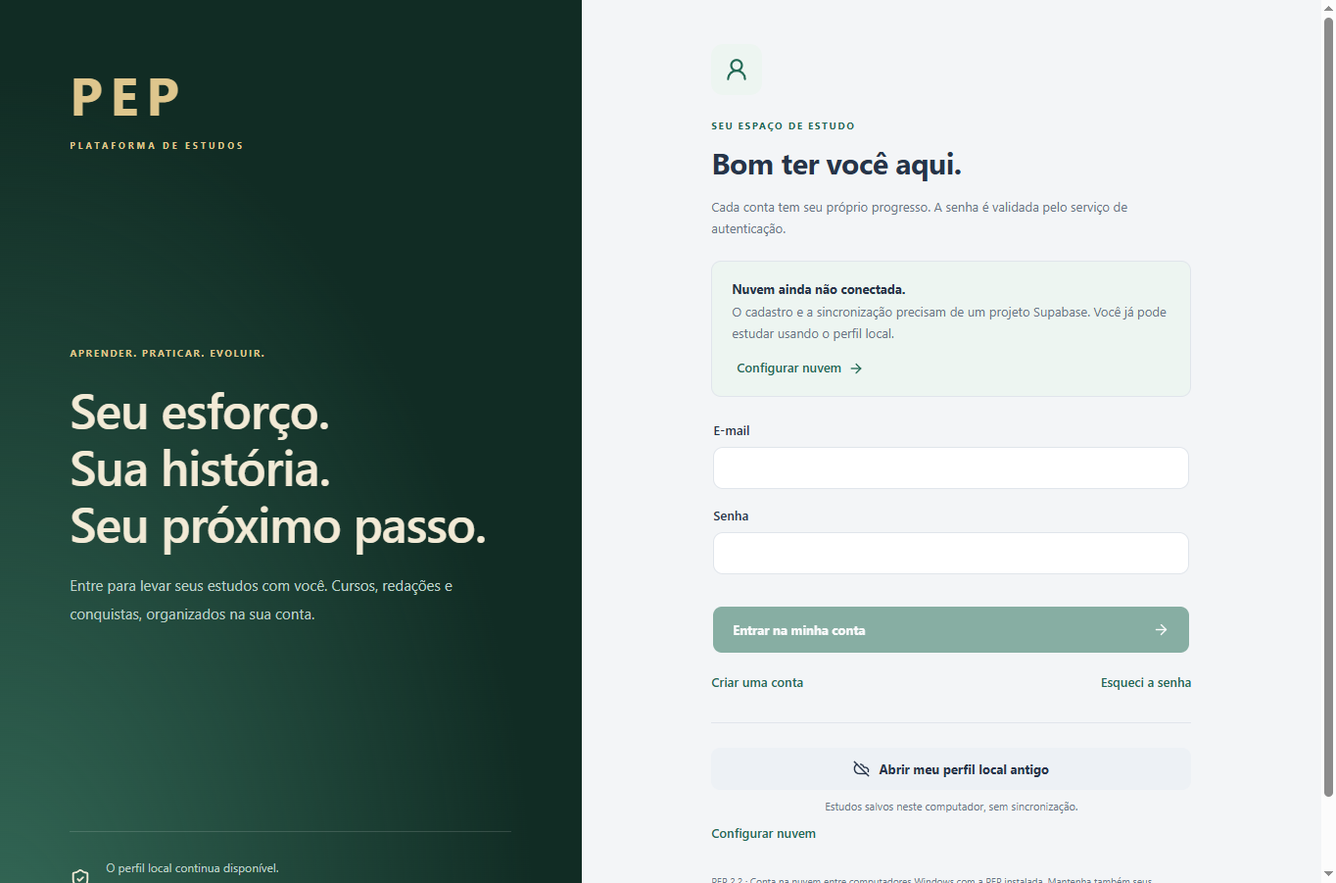
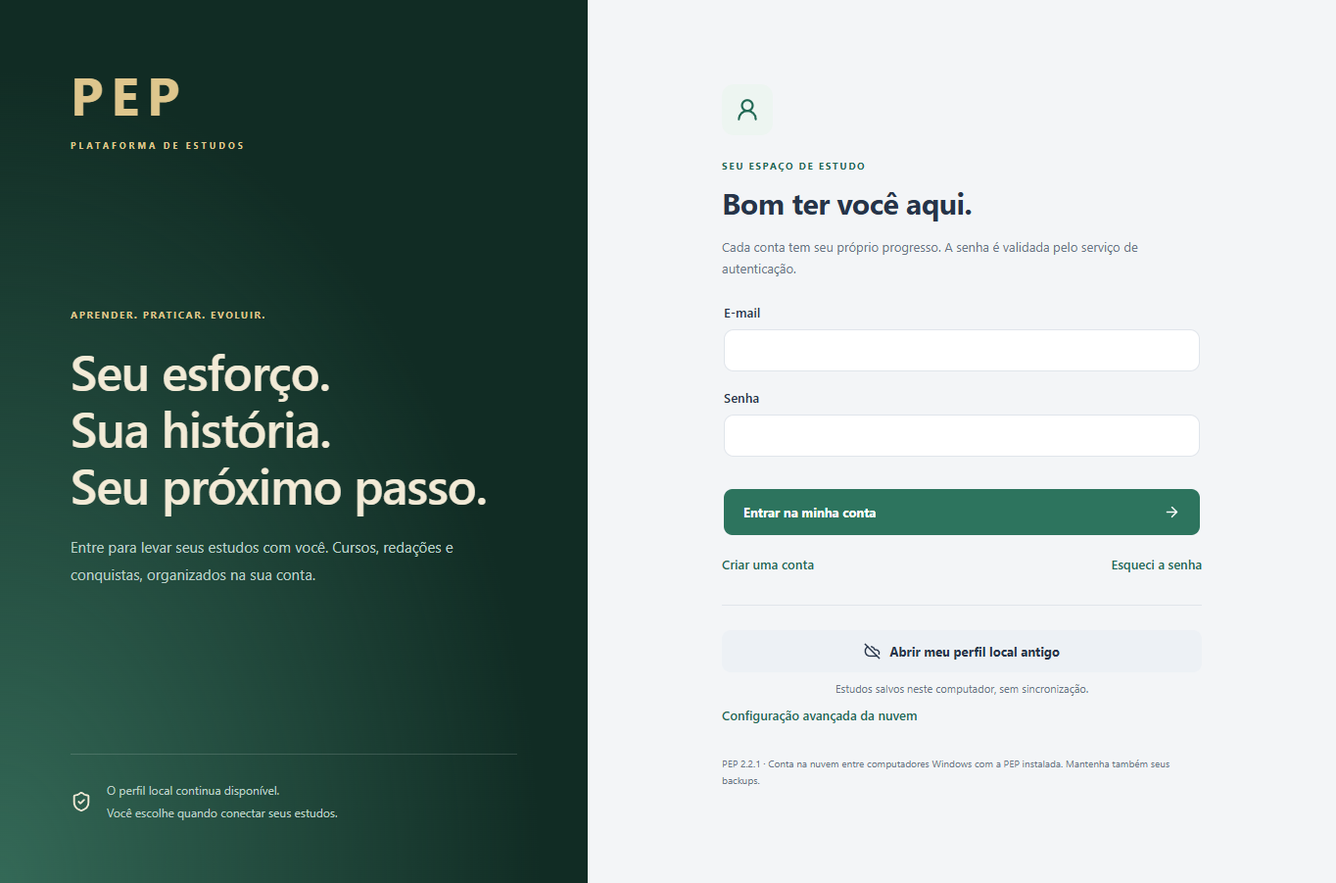
Conecta PEP 2.2.1 ao projeto publico de contas

diff --git a/src/pep-app.tsx b/src/pep-app.tsx
@@ -25,5 +25,5 @@ export default function App({accountControl}:{accountControl?:ReactNode}){
  async function toggleSound(){try{await api('/api/preferences','settings:sound',{enabled:!sound});setSound(!sound);}catch(e){setError((e as Error).message);}}
  const controls=<>{accountControl}<button className="global-nav-button" aria-label="Abrir central de redações" onClick={()=>setView('writing')}><FilePenLine size={18}/><span>Redações</span></button><button className="global-nav-button" aria-label="Abrir radar de concursos" onClick={()=>setView('radar')}><Bell size={18}/><span>Radar</span></button><button className="icon-button" aria-label="Alternar tela cheia" title="Tela cheia · F11 (Esc para sair)" onClick={()=>windowAction('fullscreen')}><Maximize2 size={17}/></button><button className="icon-button" aria-label="Minimizar PEP" title="Minimizar" onClick={()=>windowAction('minimize')}><Minus size={17}/></button><button className="icon-button" onClick={toggleSound} aria-label={sound?'Desativar som da abertura':'Ativar som da abertura'} title="Som da abertura">{sound?<Volume2 size={19}/>:<VolumeX size={19}/>}</button><button className="icon-button" onClick={theme} aria-label={mode==='dark'?'Ativar tema claro':'Ativar tema escuro'} title="Alterar tema">{mode==='dark'?<Sun size={19}/>:<Moon size={19}/>}</button></>;
  if(!ready)return <div className="loading"><b>PEP</b><p>Preparando seu espaço de estudo…</p></div>;
- return <>{intro&&<Splash sound={sound} onFinish={finish} onSound={toggleSound}/>}<div aria-hidden={intro||undefined} inert={intro||undefined}>{error&&<div className="error global-error" role="alert">{error}<button onClick={()=>setError('')}>Fechar</button></div>}<div hidden={view!=='writing'}><WritingStudio controls={controls} onExit={()=>setView('study')}/></div><div hidden={view!=='radar'}><RadarView controls={controls} onExit={()=>setView('study')}/></div><div hidden={view!=='study'}>{course?<CourseRoom key={course.id} course={course} controls={controls} onExit={()=>setCourse(null)}/>:<div className="hub"><header className="hub-header"><div className="brand"><div className="brand-mark">PEP</div><div><b>Plataforma de Estudos</b><span>Seu espaço para ir além</span></div></div><div className="row"><span className="version">VERSÃO DE TESTES · 2.2</span>{controls}</div></header><main className="hub-main">{stage==='bb'?<><button className="text-button" onClick={()=>setStage('hub')}><ArrowLeft size={17}/> Todos os concursos</button><div className="hub-title"><span className="eyebrow">BANCO DO BRASIL</span><h1>Qual caminho você prefere?</h1><p>Escolha seu cargo. Você pode trocar quando quiser; cada trilha guarda seu próprio progresso.</p></div><div className="course-grid">{courses.slice(1).map((c,i)=><button className={'course-tile '+(i?'technology':'commercial')} key={c.id} onClick={()=>setCourse(c)}><div className="tile-top"><div className="institution-icon">{i?<Monitor size={29}/>:<Landmark size={29}/>}</div><span className="pill">ENSINO MÉDIO*</span></div><div className="tile-body"><span className="eyebrow">ESCRITURÁRIO</span><h2>{i?'Agente de Tecnologia':'Agente Comercial'}</h2><p>{c.description}</p><div className="tile-tags"><span>{c.lessons.length} aulas-guia</span><span>{c.questions.length} questões</span><span>Redação</span></div></div><div className="tile-bottom">Escolher este cargo <ArrowRight size={21}/></div></button>)}</div><div className="notice"><strong>Preparação antecipada · referência 2022/001.</strong> Não foi localizado novo edital na pesquisa de 05/10/2026. A estrutura usa a seleção de 2022 e as provas de 2023. *Requisito do edital histórico; confira as regras de uma nova seleção.</div></>:<><div className="hub-title"><span className="eyebrow">SEU FUTURO, UMA HORA POR DIA</span><h1>Onde você quer chegar?</h1><p>Escolha um concurso e transforme sua próxima hora em progresso.</p></div><div className="course-grid"><button className="course-tile curitiba" onClick={()=>setCourse(courses[0])}><div className="tile-top"><div className="institution-icon"><Building2 size={30}/></div><span className="pill">EDITAL 4/2026</span></div><div className="tile-body"><span className="eyebrow">PREFEITURA DE CURITIBA</span><h2>Agente<br/>Administrativo</h2><p>Um caminho para o serviço público. Sua preparação organizada até a prova.</p><div className="tile-tags"><span>40 aulas-guia</span><span>80 questões</span><span>Prova · 13 dez*</span></div></div><div className="tile-bottom">Entrar no curso <ArrowRight size={21}/></div></button><button className="course-tile commercial" onClick={()=>setStage('bb')}><div className="tile-top"><div className="institution-icon"><Landmark size={30}/></div><span className="pill">DUAS TRILHAS</span></div><div className="tile-body"><span className="eyebrow">BANCO DO BRASIL</span><h2>Seu lugar<br/>no próximo capítulo.</h2><p>Agente Comercial ou Agente de Tecnologia. Escolha a trilha que combina com você.</p><div className="tile-tags"><span>Preparação antecipada</span><span>Redação</span></div></div><div className="tile-bottom">Escolher meu cargo <ArrowRight size={21}/></div></button></div></>}<div className="hub-tools"><button onClick={()=>setView('writing')}><FilePenLine size={25}/><div><b>Central de redações</b><span>ENEM, concursos e vestibulares · correção com Groq</span></div><ArrowRight size={19}/></button><button onClick={()=>setView('radar')}><Bell size={25}/><div><b>Radar de concursos</b><span>Publicações oficiais, próximos passos e lembretes</span></div><ArrowRight size={19}/></button></div><div className="hub-features"><div><Clock3 size={22}/><b>1 hora por dia</b><span>Um plano possível para sua rotina</span></div><div><BookOpen size={22}/><b>Aprenda e pratique</b><span>Aulas, questões, revisões e simulados</span></div><div><Check size={22}/><b>Progresso no computador</b><span>Estude offline e salve seus backups</span></div></div><footer><span>PEP · Aprender. Praticar. Evoluir.</span><button className="text-button" onClick={()=>setIntro(true)}>Rever abertura</button><span>{stage==='hub'?'*Data prevista. Confira as publicações da banca.':'Conteúdo autoral de apoio; confira o edital vigente.'}</span></footer></main></div>}</div></div></>;
+ return <>{intro&&<Splash sound={sound} onFinish={finish} onSound={toggleSound}/>}<div aria-hidden={intro||undefined} inert={intro||undefined}>{error&&<div className="error global-error" role="alert">{error}<button onClick={()=>setError('')}>Fechar</button></div>}<div hidden={view!=='writing'}><WritingStudio controls={controls} onExit={()=>setView('study')}/></div><div hidden={view!=='radar'}><RadarView controls={controls} onExit={()=>setView('study')}/></div><div hidden={view!=='study'}>{course?<CourseRoom key={course.id} course={course} controls={controls} onExit={()=>setCourse(null)}/>:<div className="hub"><header className="hub-header"><div className="brand"><div className="brand-mark">PEP</div><div><b>Plataforma de Estudos</b><span>Seu espaço para ir além</span></div></div><div className="row"><span className="version">VERSÃO DE TESTES · 2.2.1</span>{controls}</div></header><main className="hub-main">{stage==='bb'?<><button className="text-button" onClick={()=>setStage('hub')}><ArrowLeft size={17}/> Todos os concursos</button><div className="hub-title"><span className="eyebrow">BANCO DO BRASIL</span><h1>Qual caminho você prefere?</h1><p>Escolha seu cargo. Você pode trocar quando quiser; cada trilha guarda seu próprio progresso.</p></div><div className="course-grid">{courses.slice(1).map((c,i)=><button className={'course-tile '+(i?'technology':'commercial')} key={c.id} onClick={()=>setCourse(c)}><div className="tile-top"><div className="institution-icon">{i?<Monitor size={29}/>:<Landmark size={29}/>}</div><span className="pill">ENSINO MÉDIO*</span></div><div className="tile-body"><span className="eyebrow">ESCRITURÁRIO</span><h2>{i?'Agente de Tecnologia':'Agente Comercial'}</h2><p>{c.description}</p><div className="tile-tags"><span>{c.lessons.length} aulas-guia</span><span>{c.questions.length} questões</span><span>Redação</span></div></div><div className="tile-bottom">Escolher este cargo <ArrowRight size={21}/></div></button>)}</div><div className="notice"><strong>Preparação antecipada · referência 2022/001.</strong> Não foi localizado novo edital na pesquisa de 05/10/2026. A estrutura usa a seleção de 2022 e as provas de 2023. *Requisito do edital histórico; confira as regras de uma nova seleção.</div></>:<><div className="hub-title"><span className="eyebrow">SEU FUTURO, UMA HORA POR DIA</span><h1>Onde você quer chegar?</h1><p>Escolha um concurso e transforme sua próxima hora em progresso.</p></div><div className="course-grid"><button className="course-tile curitiba" onClick={()=>setCourse(courses[0])}><div className="tile-top"><div className="institution-icon"><Building2 size={30}/></div><span className="pill">EDITAL 4/2026</span></div><div className="tile-body"><span className="eyebrow">PREFEITURA DE CURITIBA</span><h2>Agente<br/>Administrativo</h2><p>Um caminho para o serviço público. Sua preparação organizada até a prova.</p><div className="tile-tags"><span>40 aulas-guia</span><span>80 questões</span><span>Prova · 13 dez*</span></div></div><div className="tile-bottom">Entrar no curso <ArrowRight size={21}/></div></button><button className="course-tile commercial" onClick={()=>setStage('bb')}><div className="tile-top"><div className="institution-icon"><Landmark size={30}/></div><span className="pill">DUAS TRILHAS</span></div><div className="tile-body"><span className="eyebrow">BANCO DO BRASIL</span><h2>Seu lugar<br/>no próximo capítulo.</h2><p>Agente Comercial ou Agente de Tecnologia. Escolha a trilha que combina com você.</p><div className="tile-tags"><span>Preparação antecipada</span><span>Redação</span></div></div><div className="tile-bottom">Escolher meu cargo <ArrowRight size={21}/></div></button></div></>}<div className="hub-tools"><button onClick={()=>setView('writing')}><FilePenLine size={25}/><div><b>Central de redações</b><span>ENEM, concursos e vestibulares · correção com Groq</span></div><ArrowRight size={19}/></button><button onClick={()=>setView('radar')}><Bell size={25}/><div><b>Radar de concursos</b><span>Publicações oficiais, próximos passos e lembretes</span></div><ArrowRight size={19}/></button></div><div className="hub-features"><div><Clock3 size={22}/><b>1 hora por dia</b><span>Um plano possível para sua rotina</span></div><div><BookOpen size={22}/><b>Aprenda e pratique</b><span>Aulas, questões, revisões e simulados</span></div><div><Check size={22}/><b>Progresso no computador</b><span>Estude offline e salve seus backups</span></div></div><footer><span>PEP · Aprender. Praticar. Evoluir.</span><button className="text-button" onClick={()=>setIntro(true)}>Rever abertura</button><span>{stage==='hub'?'*Data prevista. Confira as publicações da banca.':'Conteúdo autoral de apoio; confira o edital vigente.'}</span></footer></main></div>}</div></div></>;
 }

diff --git a/src/account-ui.tsx b/src/account-ui.tsx
@@ -6,15 +6,15 @@ function hasUnsaved(){return !window.dispatchEvent(new Event('beforeunload',{can
 export default function AccountGate(){
  const [state,setState]=useState<any>(null),[page,setPage]=useState('login'),[email,setEmail]=useState(''),[password,setPassword]=useState(''),[repeat,setRepeat]=useState(''),[code,setCode]=useState(''),[url,setUrl]=useState(''),[key,setKey]=useState(''),[busy,setBusy]=useState(false),[error,setError]=useState(''),[message,setMessage]=useState('');
  useEffect(()=>{account().then(d=>{setState(d);setUrl(d.projectUrl);}).catch(e=>setError(e.message));},[]);
- async function action(type:string){setBusy(true);setError('');setMessage('');try{if(type==='signup'&&password!==repeat)throw Error('As senhas precisam ser iguais.');const d=await account({action:type,email,password,code,url,key});if(['config','guest','login','signup','confirm','reset'].includes(type)){if(d.profile){setState(d);setPassword('');setRepeat('');}else{setState((s:any)=>({...s,...d}));if(type==='signup'){setPage('confirm');setPassword('');setRepeat('');setMessage('Confira seu e-mail para confirmar o cadastro. Se recebeu um link, confirme no navegador e depois entre aqui.');}else if(type==='config'){setKey('');setPage('login');setMessage('Projeto configurado. O banco precisa estar instalado conforme o guia.');}}}else setMessage(type==='recover'?'Se a conta existir, enviaremos um código. Confira também a pasta de spam.':'Mensagem solicitada. Confira seu e-mail.');}catch(e){setError((e as Error).message);}finally{setBusy(false);}}
+ async function action(type:string){setBusy(true);setError('');setMessage('');try{if(type==='signup'&&password!==repeat)throw Error('As senhas precisam ser iguais.');const d=await account({action:type,email,password,code,url,key});if(['config','guest','login','signup','confirm','reset'].includes(type)){if(d.profile){setState(d);setPassword('');setRepeat('');}else{setState((s:any)=>({...s,...d}));if(type==='signup'){setPage('confirm');setPassword('');setRepeat('');setMessage('Enviamos um código para seu e-mail. Digite-o abaixo para confirmar o cadastro. Confira também a pasta de spam.');}else if(type==='config'){setKey('');setPage('login');setMessage('Projeto configurado. O banco precisa estar instalado conforme o guia.');}}}else setMessage(type==='recover'?'Se a conta existir, enviaremos um código. Confira também a pasta de spam.':'Mensagem solicitada. Confira seu e-mail.');}catch(e){setError((e as Error).message);}finally{setBusy(false);}}
  function navigate(next:string){setPage(next);setError('');setMessage('');setPassword('');setRepeat('');setCode('');}
  if(state?.profile)return <App key={state.profile.id} accountControl={<AccountMenu initial={state} onLogout={d=>{setState(d);navigate('login');}}/>}/>;
- return <div className="auth-page"><aside className="auth-story"><div className="auth-logo">PEP<span>PLATAFORMA DE ESTUDOS</span></div><div><span className="eyebrow">APRENDER. PRATICAR. EVOLUIR.</span><h1>Seu esforço.<br/>Sua história.<br/>Seu próximo passo.</h1><p>Entre para levar seus estudos com você. Cursos, redações e conquistas, organizados na sua conta.</p></div><div className="auth-promise"><ShieldCheck size={22}/><p>O perfil local continua disponível.<br/>Você escolhe quando conectar seus estudos.</p></div></aside><main className="auth-main"><div className="auth-card"><div className="auth-icon"><UserRound size={26}/></div><span className="eyebrow">SEU ESPAÇO DE ESTUDO</span><h2>{({login:'Bom ter você aqui.',signup:'Comece seu próximo capítulo.',config:'Conecte sua nuvem.',confirm:'Confirme seu e-mail.',recover:'Recupere seu acesso.'} as any)[page]}</h2><p>{page==='config'?'Configure uma vez em cada computador. Use o mesmo projeto para acessar as mesmas contas.':'Cada conta tem seu próprio progresso. A senha é validada pelo serviço de autenticação.'}</p>{!state&&!error&&<p>Preparando sua conta…</p>}{error&&<div className="error" role="alert">{error}</div>}{message&&<div className="notice" role="status">{message}</div>}
+ return <div className="auth-page"><aside className="auth-story"><div className="auth-logo">PEP<span>PLATAFORMA DE ESTUDOS</span></div><div><span className="eyebrow">APRENDER. PRATICAR. EVOLUIR.</span><h1>Seu esforço.<br/>Sua história.<br/>Seu próximo passo.</h1><p>Entre para levar seus estudos com você. Cursos, redações e conquistas, organizados na sua conta.</p></div><div className="auth-promise"><ShieldCheck size={22}/><p>O perfil local continua disponível.<br/>Você escolhe quando conectar seus estudos.</p></div></aside><main className="auth-main"><div className="auth-card"><div className="auth-icon"><UserRound size={26}/></div><span className="eyebrow">SEU ESPAÇO DE ESTUDO</span><h2>{({login:'Bom ter você aqui.',signup:'Comece seu próximo capítulo.',config:'Conecte sua nuvem.',confirm:'Confirme seu e-mail.',recover:'Recupere seu acesso.'} as any)[page]}</h2><p>{page==='config'?'A PEP já vem conectada à sua nuvem. Altere apenas se quiser usar outro projeto; contas de projetos diferentes são separadas.':'Cada conta tem seu próprio progresso. A senha é validada pelo serviço de autenticação.'}</p>{!state&&!error&&<p>Preparando sua conta…</p>}{error&&<div className="error" role="alert">{error}</div>}{message&&<div className="notice" role="status">{message}</div>}
  {state&&!state.configured&&page!=='config'&&<div className="notice"><b>Nuvem ainda não conectada.</b><p>O cadastro e a sincronização precisam de um projeto Supabase. Você já pode estudar usando o perfil local.</p><button className="text-button" onClick={()=>navigate('config')}>Configurar nuvem <ArrowRight size={16}/></button></div>}
  <form onSubmit={e=>{e.preventDefault();action(page==='config'?'config':page==='recover'?'reset':page);}}><fieldset disabled={busy||!state}>
  {page==='config'?<><label className="field-label">URL do projeto<input aria-label="URL Supabase" type="url" required value={url} onChange={e=>setUrl(e.target.value)} placeholder="https://seuprojeto.supabase.co"/></label><label className="field-label">Chave pública publishable ou anon<input aria-label="Chave pública Supabase" autoComplete="off" required value={key} onChange={e=>setKey(e.target.value)} placeholder="sb_publishable_…"/></label><p className="muted">Não use a chave service_role nem secret. Crie o banco com o arquivo <b>supabase/setup.sql</b> antes de sincronizar.</p><a href="https://github.com/luizhenriquevfernandes2008-ops/plataforma-de-estudos/blob/main/docs/CONFIGURAR-NUVEM.md" target="_blank" rel="noreferrer">Abrir guia de configuração ↗</a></>:<><label className="field-label">E-mail<input aria-label="E-mail da conta" type="email" autoComplete="username" required maxLength={254} value={email} onChange={e=>setEmail(e.target.value)}/></label>{['confirm','recover'].includes(page)&&<><div className="row"><button type="button" className="text-button" onClick={()=>action(page==='confirm'?'resend':'recover')}>{page==='confirm'?'Reenviar confirmação':'Enviar código de recuperação'}</button></div><label className="field-label">Código recebido por e-mail<input aria-label="Código de confirmação" inputMode="numeric" autoComplete="one-time-code" pattern="[0-9]{6,10}" required value={code} onChange={e=>setCode(e.target.value)}/></label></>}{page!=='confirm'&&<label className="field-label">{page==='recover'?'Nova senha':'Senha'}<input aria-label="Senha da conta" type="password" autoComplete={page==='login'?'current-password':'new-password'} minLength={8} maxLength={128} required value={password} onChange={e=>setPassword(e.target.value)}/></label>}{page==='signup'&&<><label className="field-label">Repita a senha<input aria-label="Confirmar senha" type="password" autoComplete="new-password" minLength={8} maxLength={128} required value={repeat} onChange={e=>setRepeat(e.target.value)}/></label><p className="muted">Ao criar a conta, você autoriza guardar e-mail, progresso, anotações, redações e correções no projeto Supabase configurado. A chave Groq fica somente neste computador.</p></>}</>}
  <button className="button primary auth-submit" disabled={busy||(!state?.configured&&page!=='config')} type="submit">{busy?'Aguarde…':({login:'Entrar na minha conta',signup:'Criar conta',config:'Salvar configuração',confirm:'Confirmar e entrar',recover:'Salvar nova senha'} as any)[page]}<ArrowRight size={17}/></button></fieldset></form>
- <div className="auth-links">{page==='login'?<><button className="text-button" disabled={busy} onClick={()=>navigate('signup')}>Criar uma conta</button><button className="text-button" disabled={busy} onClick={()=>navigate('recover')}>Esqueci a senha</button></>:<button className="text-button" disabled={busy} onClick={()=>navigate('login')}>Voltar para entrar</button>}</div><div className="auth-local"><button className="button" disabled={busy||!state} onClick={()=>action('guest')}><CloudOff size={17}/> Abrir meu perfil local antigo</button><small>Estudos salvos neste computador, sem sincronização.</small></div>{page!=='config'&&<button className="text-button" disabled={busy} onClick={()=>navigate('config')}>Configurar nuvem</button>}<p className="auth-footnote">PEP 2.2 · Conta na nuvem entre computadores Windows com a PEP instalada. Mantenha também seus backups.</p></div></main></div>;
+ <div className="auth-links">{page==='login'?<><button className="text-button" disabled={busy} onClick={()=>navigate('signup')}>Criar uma conta</button><button className="text-button" disabled={busy} onClick={()=>navigate('recover')}>Esqueci a senha</button></>:<button className="text-button" disabled={busy} onClick={()=>navigate('login')}>Voltar para entrar</button>}</div><div className="auth-local"><button className="button" disabled={busy||!state} onClick={()=>action('guest')}><CloudOff size={17}/> Abrir meu perfil local antigo</button><small>Estudos salvos neste computador, sem sincronização.</small></div>{page!=='config'&&<button className="text-button" disabled={busy} onClick={()=>navigate('config')}>Configuração avançada da nuvem</button>}<p className="auth-footnote">PEP 2.2.1 · Conta na nuvem entre computadores Windows com a PEP instalada. Mantenha também seus backups.</p></div></main></div>;
 }
 function AccountMenu({initial,onLogout}:{initial:any;onLogout:(state:any)=>void}){
  const [state,setState]=useState(initial),[open,setOpen]=useState(false),[busy,setBusy]=useState(false),[error,setError]=useState(''),[choices,setChoices]=useState<Record<string,string>>({});

diff --git a/docs/CONFIGURAR-NUVEM.md b/docs/CONFIGURAR-NUVEM.md
@@ -1,6 +1,6 @@
 # Ativar contas e sincronização da PEP
 
-A versão 2.2 inclui a integração, mas não inclui um projeto Supabase contratado ou configurado. Até conectar seu projeto, use **Abrir meu perfil local antigo**. Não existe uma conta fictícia nem uma senha universal no aplicativo.
+A versão 2.2.1 inclui a conexão pública ao projeto da PEP: alunos podem escolher **Criar uma conta** sem configurar o Supabase. O restante deste guia serve para o proprietário administrar o serviço ou configurar outro projeto. Não existe conta fictícia nem senha universal.
 
 ## 1. Criar o projeto e o banco
 
@@ -11,7 +11,9 @@ A versão 2.2 inclui a integração, mas não inclui um projeto Supabase contrat
 
 ## 2. E-mails de confirmação e recuperação
 
-Em **Authentication → Email Templates**, inclua um código nos templates **Confirm signup** e **Reset password**:
+Em **Authentication → Emails → SMTP Settings**, configure primeiro seu provedor SMTP. A interface pode exigir SMTP próprio para liberar a edição dos templates. Para início com baixo volume e sem domínio próprio, Gmail SMTP usa `smtp.gmail.com`, porta `587`, seu Gmail como remetente/usuário e uma senha de app gerada com verificação em duas etapas. Essa senha fica apenas no painel Supabase, nunca no código ou no aplicativo. Gmail tem limites e pode restringir a entrega de e-mails automáticos.
+
+Em **Emails → Templates**, inclua um código em **Confirm sign up** e **Reset password**, na aba **Source**:
 
 ```html
 <h2>PEP — confirmação de acesso</h2>
@@ -21,10 +23,10 @@ Em **Authentication → Email Templates**, inclua um código nos templates **Con
 
 No template de recuperação, troque o título para “PEP — recuperação de senha”. O app verifica o código e permite cadastrar uma nova senha. Não precisa de um site intermediário para esse fluxo. Se mantiver links de confirmação, configure também uma Site URL sua; depois de confirmar no navegador, volte à PEP e entre com e-mail e senha.
 
-## 3. Conectar o aplicativo
+## 3. Conectar outro projeto (opcional para administradores)
 
 1. No painel do projeto, copie a **Project URL** e a chave **publishable** (`sb_publishable_…`) ou a chave antiga **anon**. Nunca copie `service_role`, `sb_secret_…`, senha do banco ou token administrativo.
-2. Na tela inicial da PEP, clique em **Configurar nuvem**, preencha os dois campos e salve.
+2. Na tela inicial da PEP, clique em **Configuração avançada da nuvem**, preencha os dois campos e salve.
 3. Clique em **Criar uma conta**, informe e-mail e senha, confirme o código recebido e entre.
 4. No segundo computador Windows, instale a PEP, configure **o mesmo projeto** e entre com a mesma conta.
 
@@ -44,6 +46,6 @@ Alterações em registros diferentes são combinadas. Quando dois dispositivos a
 
 Crie duas contas de teste no projeto real. Salve uma anotação diferente em cada uma e confirme que uma não lê a outra. Use a mesma conta em dois computadores e confira envio, recebimento, conflito de edição, confirmação de e-mail e recuperação de senha. Confira os logs do Supabase e o resultado das políticas RLS. Estes testes reais dependem do projeto e do SMTP; não foram executados na entrega sem esses serviços.
 
-O código da PEP foi testado com respostas simuladas do provedor. O SQL está preparado, mas só passa a proteger um banco real depois de executado no seu projeto. A configuração é local por instalação e não vai no repositório.
+Na entrega 2.2.1, o proprietário executou o SQL e configurou SMTP/templates. A consulta real confirmou cadastro habilitado, confirmação obrigatória e acesso anônimo ao progresso negado. Ainda falta validar o fluxo completo com contas reais. `cloud-defaults.json` distribui apenas a URL e a chave pública do projeto da PEP. Configurações personalizadas continuam locais e têm prioridade; senhas, sessões e chaves administrativas nunca entram no repositório.
 
 Referências: [autenticação por senha](https://supabase.com/docs/guides/auth/passwords), [templates de e-mail](https://supabase.com/docs/guides/auth/auth-email-templates), [SMTP](https://supabase.com/docs/guides/auth/auth-smtp), [RLS](https://supabase.com/docs/guides/database/postgres/row-level-security) e [chaves públicas](https://supabase.com/docs/guides/getting-started/api-keys).

diff --git a/docs/STATUS.md b/docs/STATUS.md
@@ -1,4 +1,4 @@
-# Estado da versão 2.2.0 — 19/10/2026
+# Estado da versão 2.2.1 — 19/10/2026
 
 ## Concluído
 
@@ -6,19 +6,19 @@
 - Central de redações separada: cinco modalidades, salvamento automático, revisão local, integração Groq e histórico por texto.
 - Radar com cinco fontes oficiais selecionáveis, agenda, etapas, avisos e bandeja do Windows.
 - Cadastro/login Supabase, confirmação e recuperação por código, sessão protegida pelo Windows, cópia local por conta, sincronização e resolução de conflitos.
-- Perfil antigo preservado e backups compatíveis com versões anteriores. Chaves e sessões excluídas de backup, sincronização e distribuição.
+- Perfil antigo preservado e backups compatíveis com versões anteriores. Chaves privadas e sessões excluídas de backup, sincronização e distribuição. A URL e a chave pública Supabase são incluídas para cadastro imediato.
 
 ## Verificado
 
 - TypeScript sem erros e build de produção.
-- 19 testes automatizados: persistência, conteúdo, isolamento, revisão, autenticação, proteção da sessão, mesclagem, conflitos e falhas de rede.
+- 22 testes automatizados: persistência, conteúdo, isolamento, revisão, autenticação, proteção da sessão, mesclagem, conflitos e falhas de rede.
 - Interface Electron: tela cheia e áudio, revisão local, sugestões e desfazer, históricos independentes, proteção da chave pelo Windows, agenda, tema, navegação sem perder anotações, bandeja e backup v4.
 - Contas na interface com provedor simulado: bloqueio antes do login, troca A → B → A, isolamento e recebimento de progresso de outro dispositivo.
 - Consulta real das cinco fontes do radar em 19/10/2026. Fontes externas podem mudar depois dessa verificação.
 
 ## Ativação externa pendente
 
-O proprietário informou que ainda não possui projeto Supabase. O SQL e o guia estão incluídos, mas **não foram implantados em um projeto real**. Não foram testados e-mails reais, isolamento RLS em banco remoto nem comunicação entre dois computadores físicos. A verificação de contas usou respostas simuladas do provedor.
+O proprietário executou o SQL com sucesso e configurou SMTP Gmail e templates por código. A consulta real em 19/10/2026 confirmou chave válida, e-mail habilitado, cadastro aberto e confirmação obrigatória. A leitura anônima da tabela foi negada com HTTP 401. A versão já traz URL/chave pública; configurações personalizadas anteriores são preservadas. Ainda não foram testados recebimento real de e-mail, isolamento entre usuários autenticados no banco remoto ou comunicação entre dois computadores físicos. Os testes de contas usam respostas simuladas do provedor.
 
 Nenhuma chave Groq real foi fornecida; o fluxo da API foi testado com respostas simuladas. A primeira correção online depende de uma chave válida e dos limites da conta. Revisão local funciona imediatamente.
 
@@ -30,4 +30,4 @@ O aplicativo distribuído é Windows x64, sem assinatura digital. Não é uma ve
 
 O código e os pacotes ficam salvos localmente. A versão 2.0 e a Prefeitura anterior continuam disponíveis; a versão intermediária 2.1 também foi preservada. A PEP pode consultar fontes e sincronizar enquanto executa, mas não continua desenvolvendo código quando a conversa termina.
 
-Próximo passo externo: seguir [CONFIGURAR-NUVEM.md](CONFIGURAR-NUVEM.md), executar `supabase/setup.sql`, configurar e-mails e validar duas contas reais. Depois disso, conectar o mesmo projeto nos computadores de uso.
+Próximo passo: criar uma conta no app e verificar a chegada do código; depois testar recuperação de senha, isolamento entre duas contas reais e acesso à mesma conta em outro computador Windows. Veja [CONFIGURAR-NUVEM.md](CONFIGURAR-NUVEM.md).

diff --git a/README.md b/README.md
@@ -1,6 +1,6 @@
 # PEP — Plataforma de Estudos
 
-Aplicativo de estudos para Windows, versão **2.2.0**. Cursos offline, central de redações, radar de concursos e integração de contas com Supabase.
+Aplicativo de estudos para Windows, versão **2.2.1**. Cursos offline, central de redações, radar de concursos e integração de contas com Supabase.
 
 ![Tela inicial de contas](docs/login.png)
 
@@ -23,7 +23,7 @@ Curitiba: Edital 4/2026, com link para a versão retificada em 15/10/2026, consu
 - **Radar:** consulta fontes oficiais, detecta novas publicações após uma consulta inicial, organiza etapas e envia lembretes enquanto o app está aberto ou na bandeja. ENEM e autorizações federais são fontes opcionais. Não cobre todos os concursos nem atualiza automaticamente prazos da agenda.
 - **Contas:** cadastro, login, confirmação por e-mail, recuperação por código, sessão protegida e progresso separado por usuário. Sincronização com cópia local e tratamento explícito de conflitos.
 
-**A nuvem ainda precisa ser ativada em um projeto seu.** A entrega não inclui projeto Supabase ou serviço de e-mail configurados. Sem essa configuração, use **Abrir meu perfil local antigo**. Veja [Configurar nuvem](docs/CONFIGURAR-NUVEM.md) e execute [o SQL](supabase/setup.sql) no projeto. A mesma conta funciona em outros computadores Windows com a PEP e o mesmo projeto configurado.
+**A PEP já inclui a conexão pública ao projeto de contas.** Abra o app, escolha **Criar uma conta** e confirme o código recebido por e-mail. Em outro computador Windows, use a mesma versão e conta. O perfil local antigo continua disponível. O arquivo `cloud-defaults.json` contém somente a URL e a chave pública publishable; nenhuma senha ou chave administrativa é distribuída. Uma configuração personalizada existente é preservada. Para administrar ou usar outro projeto, veja [Configurar nuvem](docs/CONFIGURAR-NUVEM.md).
 
 ![Central de redações](docs/redacoes.png)
 
@@ -65,6 +65,6 @@ O radar exige internet para consultar fontes; os cursos e a revisão por regras 
 
 Testes automatizados cobrem conteúdo, gravação, isolamento, correção estruturada, chaves, limites de API, extração de publicações, sessões e conflitos. A interface foi exercitada no Electron, incluindo backup e navegação. As cinco fontes do radar responderam à consulta de 19/10/2026.
 
-Groq e Supabase foram testados com respostas simuladas. **Não houve correção real com chave Groq nem implantação/validação do banco Supabase real nesta entrega.** Confirmação e recuperação de e-mail dependem do SMTP e dos templates do projeto. Veja [o estado da versão](docs/STATUS.md).
+O projeto Supabase real aceitou a chave pública e informou cadastro por e-mail habilitado com confirmação obrigatória; a leitura de progresso sem login foi negada (HTTP 401). O proprietário executou o SQL e configurou SMTP/templates. **Recebimento real de e-mails, isolamento entre duas contas autenticadas e sincronização entre computadores físicos ainda precisam de teste.** As verificações automatizadas de contas usam respostas simuladas; Groq também não foi testado com chave real. Veja [o estado da versão](docs/STATUS.md).
 
 Principais módulos: `main.cjs` (desktop/API local), `essay-service.cjs` (revisão), `radar.cjs` (fontes), `cloud-auth.cjs` (contas), `cloud-sync.cjs` (sincronização), `src/account-ui.tsx`, `src/writing-studio.tsx`, `src/radar-view.tsx` e `src/course-room.tsx`. Os arquivos antigos de interface foram preservados como referência.

diff --git a/docs/GUIA-PEP.md b/docs/GUIA-PEP.md
@@ -1,10 +1,10 @@
-# PEP 2.2 — guia de uso
+# PEP 2.2.1 — guia de uso
 
 Abra `PEP.exe` dentro da pasta completa do aplicativo. Na Área de Trabalho, use a pasta **PEP - Meus testes** e o atalho **Abrir PEP - Nova versao**. As versões antigas continuam guardadas.
 
 ## Entrar e estudar
 
-Na tela de login, abra o perfil local antigo para continuar imediatamente. Para contas entre computadores, siga [Configurar nuvem](CONFIGURAR-NUVEM.md). O projeto Supabase ainda precisa ser criado e conectado pelo proprietário.
+Na tela de login, escolha **Criar uma conta**, informe e-mail e senha e digite o código recebido por e-mail. A conexão com a nuvem já está incluída. Em outro computador Windows, instale esta versão e entre com a mesma conta. Para continuar sem conta, escolha **Abrir meu perfil local antigo**. Se o app abrir direto nesse perfil, use **Minha conta → Entrar em outra conta**.
 
 Depois da entrada, a vinheta PEP dá acesso a Curitiba e Banco do Brasil. No BB, escolha Agente Comercial ou Agente de Tecnologia. Cada trilha guarda seu progresso. Use o botão de tema para alternar claro/escuro e o alto-falante para desativar a vinheta. O app abre em tela cheia; **Esc** sai e **F11** alterna.
 
